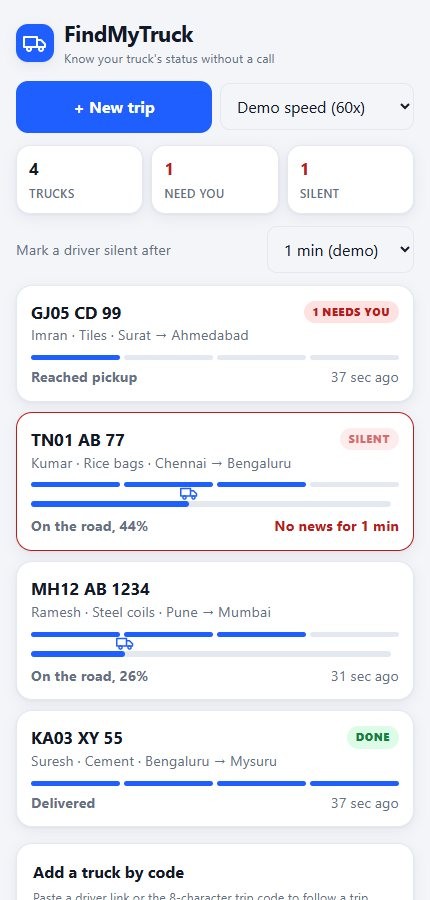
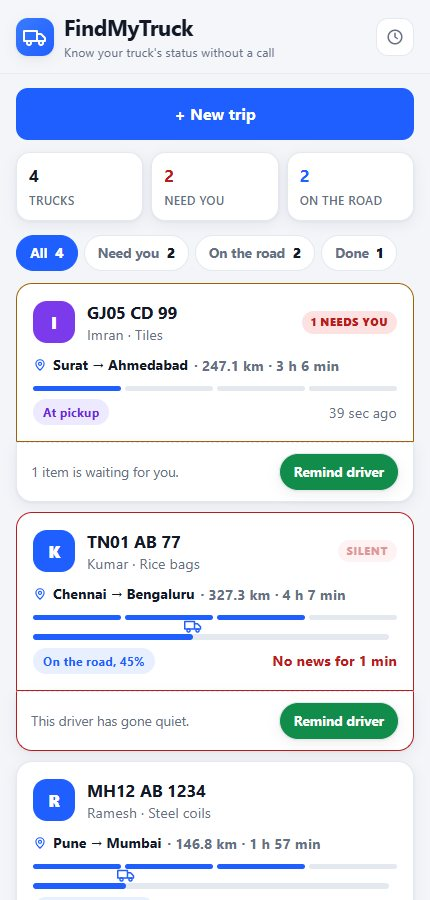
Add Remind driver for anything that needs the manager, and refresh the website screenshots

diff --git a/app/trip-detail.tsx b/app/trip-detail.tsx
@@ -5,7 +5,7 @@ import dynamic from "next/dynamic";
 import QRCode from "qrcode";
 import { useCallback, useEffect, useRef, useState } from "react";
 import { LABELS, LANGUAGES } from "@/lib/labels";
-import { STATUSES, normalizePhone, openCount, routeProgress, silentFor, stageIndex } from "@/lib/rules";
+import { STATUSES, lastDriverEvent, normalizePhone, openCount, routeProgress, silentFor, stageIndex } from "@/lib/rules";
 import type { Event, Trip } from "@/lib/store";
 import type { Created } from "./new-trip-form";
 import { Brand, Icon, Skeleton, ago, duration } from "./ui";
@@ -34,9 +34,10 @@ type Props = {
   onRemove: () => void; // drop this truck from the list
   onFound: () => void; // the trip exists, make sure it is on the list
   embedded?: boolean; // shown inside the demo page: no header, buttons, driver link or chat panel
+  onRemind?: (text: string) => void; // the demo page shows the reminder on its phone
 };
 
-export default function TripDetail({ tripId, created, demoSpeed, setDemoSpeed, silentMin, onBack, onRemove, onFound, embedded = false }: Props) {
+export default function TripDetail({ tripId, created, demoSpeed, setDemoSpeed, silentMin, onBack, onRemove, onFound, embedded = false, onRemind }: Props) {
   const [trip, setTrip] = useState<Trip | null>(null);
   const [missing, setMissing] = useState(false);
   const [now, setNow] = useState(0); // set by the first timer tick
@@ -44,6 +45,8 @@ export default function TripDetail({ tripId, created, demoSpeed, setDemoSpeed, s
   const [sim, setSim] = useState<{ from: "driver" | "bot"; text: string }[]>([]);
   const [simText, setSimText] = useState("");
   const [simBusy, setSimBusy] = useState(false);
+  const [remindBusy, setRemindBusy] = useState(false);
+  const [remindNote, setRemindNote] = useState("");
 
   const foundRef = useRef(onFound);
   useEffect(() => { foundRef.current = onFound; });
@@ -64,6 +67,41 @@ export default function TripDetail({ tripId, created, demoSpeed, setDemoSpeed, s
     const timer = setInterval(tick, embedded ? 1500 : 3000);
     return () => { clearTimeout(first); clearInterval(timer); };
   }, [load, embedded]);
+
+  // "Remind driver": the server messages them in their language. If messaging is not connected, WhatsApp opens with the text ready.
+  async function remind(eventId?: string) {
+    if (remindBusy) return;
+    setRemindBusy(true);
+    setRemindNote("");
+    const tab = embedded ? null : window.open("", "_blank"); // opened now, while the click still counts
+    tab?.document.write("Opening WhatsApp...");
+    try {
+      const res = await fetch("/api/remind", {
+        method: "POST",
+        headers: { "Content-Type": "application/json" },
+        body: JSON.stringify({ tripId, eventId, simulate: embedded }),
+      });
+      const data = await res.json();
+      if (!res.ok) {
+        tab?.close();
+        setRemindNote(data.error ?? "Could not send the reminder.");
+      } else if (embedded) {
+        onRemind?.(data.message);
+        setRemindNote("Reminder sent to the driver.");
+      } else if (data.sent) {
+        tab?.close();
+        setRemindNote("Reminder sent to the driver.");
+      } else {
+        if (tab) tab.location.href = `https://wa.me/?text=${encodeURIComponent(data.message)}`;
+        setRemindNote(data.configured ? "The reminder could not be sent, so WhatsApp opened with it ready to send." : "Messaging is not connected, so WhatsApp opened with the reminder ready to send.");
+      }
+    } catch {
+      tab?.close();
+      setRemindNote("No connection. Try again.");
+    }
+    setRemindBusy(false);
+    load();
+  }
 
   // Demo panel: send a message as if it came from the driver's phone, and show what the app answers.
   async function sendSim(text: string) {
@@ -122,7 +160,7 @@ export default function TripDetail({ tripId, created, demoSpeed, setDemoSpeed, s
   const phone = created?.trip.id === trip.id ? created.phone : "";
 
   const events = [...trip.events].reverse();
-  const last = trip.events[trip.events.length - 1];
+  const last = lastDriverEvent(trip.events);
   const link = `${window.location.origin}/driver/${trip.id}`;
   const open = openCount(trip.events);
   const stage = stageIndex(trip.events);
@@ -130,7 +168,6 @@ export default function TripDetail({ tripId, created, demoSpeed, setDemoSpeed, s
   const route = trip.route;
   const progress = route ? routeProgress(trip.events, route.durationMin, speed, now) : 0;
   const message = LABELS[trip.language].invite.replace("{url}", link);
-  const nudge = LABELS[trip.language].nudge.replace("{url}", link);
   const digits = (normalizePhone(phone) ?? "").replace("+", "");
   const silent = silentFor(trip.events, trip.createdAt, stage, now, silentMin);
 
@@ -169,11 +206,11 @@ export default function TripDetail({ tripId, created, demoSpeed, setDemoSpeed, s
         <div className="banner danger">
           <strong>No news from the driver for {duration(silent)}.</strong>
           <div style={{ margin: "4px 0 10px" }}>Call them, or send a reminder in {LANGUAGE_NAMES[trip.language]}.</div>
-          <a href={`https://wa.me/${digits}?text=${encodeURIComponent(nudge)}`} target="_blank" rel="noreferrer" style={{ textDecoration: "none" }}>
-            <button className="wa wide" type="button">Send reminder on WhatsApp</button>
-          </a>
+          <button className="wa wide" type="button" disabled={remindBusy} onClick={() => remind()}>Remind driver</button>
         </div>
       )}
+
+      {remindNote && <div className="banner">{remindNote}</div>}
 
       {invite?.sent && (
         <div className="banner good">
@@ -282,7 +319,10 @@ export default function TripDetail({ tripId, created, demoSpeed, setDemoSpeed, s
           </div>
           {ev.photo && <img src={ev.photo} alt="Slip" />}
           {ev.level !== "ok" && !ev.handled && (
-            <p style={{ marginBottom: 0 }}><button className="secondary" onClick={() => markHandled(ev.id)}>Mark as handled</button></p>
+            <div className="row" style={{ marginTop: 12 }}>
+              <button className="wa" disabled={remindBusy} onClick={() => remind(ev.id)}>Remind driver</button>
+              <button className="secondary" onClick={() => markHandled(ev.id)}>Mark as handled</button>
+            </div>
           )}
         </div>
       ))}

diff --git a/app/fleet-view.tsx b/app/fleet-view.tsx
@@ -1,7 +1,7 @@
 "use client";
 
 import { useCallback, useEffect, useState } from "react";
-import { STATUSES, openCount, routeProgress, silentFor, stageIndex } from "@/lib/rules";
+import { STATUSES, lastDriverEvent, openCount, routeProgress, silentFor, stageIndex } from "@/lib/rules";
 import { SILENT_OPTIONS, parseTripCode } from "@/lib/fleet";
 import type { TripSummary } from "@/lib/store";
 import { Brand, Icon, Skeleton, ago, duration } from "./ui";
@@ -27,6 +27,8 @@ export default function FleetView({ ids, demoSpeed, setDemoSpeed, silentMin, set
   const [codeError, setCodeError] = useState("");
   const [filter, setFilter] = useState<Filter>("all");
   const [settings, setSettings] = useState(false);
+  const [reminding, setReminding] = useState<string | null>(null);
+  const [notes, setNotes] = useState<Record<string, string>>({});
 
   const key = ids.join(",");
   const load = useCallback(async () => {
@@ -58,6 +60,32 @@ export default function FleetView({ ids, demoSpeed, setDemoSpeed, silentMin, set
     onAdd(id);
   }
 
+  // "Remind driver" for a truck that needs you. The server messages the driver in their language; without
+  // messaging connected, WhatsApp opens with the text ready.
+  async function remind(t: TripSummary) {
+    if (reminding) return;
+    setReminding(t.id);
+    const say = (text: string) => setNotes((cur) => ({ ...cur, [t.id]: text }));
+    const tab = window.open("", "_blank"); // opened now, while the click still counts
+    tab?.document.write("Opening WhatsApp...");
+    const eventId = [...t.events].reverse().find((e) => e.level !== "ok" && !e.handled)?.id;
+    try {
+      const res = await fetch("/api/remind", { method: "POST", headers: { "Content-Type": "application/json" }, body: JSON.stringify({ tripId: t.id, eventId }) });
+      const data = await res.json();
+      if (!res.ok) { tab?.close(); say(data.error ?? "Could not send the reminder."); }
+      else if (data.sent) { tab?.close(); say("Reminder sent."); }
+      else {
+        if (tab) tab.location.href = `https://wa.me/?text=${encodeURIComponent(data.message)}`;
+        say("WhatsApp opened with the reminder ready to send.");
+      }
+    } catch {
+      tab?.close();
+      say("No connection. Try again.");
+    }
+    setReminding(null);
+    load();
+  }
+
   const speed = demoSpeed ? 60 : 1;
   const silentOf = (t: TripSummary) => silentFor(t.events, t.createdAt, stageIndex(t.events), now, silentMin);
   const needs = (t: TripSummary) => openCount(t.events) > 0 || silentOf(t) > 0;
@@ -66,7 +94,7 @@ export default function FleetView({ ids, demoSpeed, setDemoSpeed, silentMin, set
   // Trucks that need you (a decision to make, or a driver gone quiet) come first, delivered ones last.
   const sorted = [...(trips ?? [])].sort((a, b) => {
     const rank = (t: TripSummary) => (needs(t) ? 0 : stageOf(t) >= 3 ? 2 : 1);
-    const lastAt = (t: TripSummary) => t.events[t.events.length - 1]?.at ?? t.createdAt;
+    const lastAt = (t: TripSummary) => lastDriverEvent(t.events)?.at ?? t.createdAt;
     return rank(a) - rank(b) || lastAt(b) - lastAt(a);
   });
   const counts = {
@@ -131,7 +159,7 @@ export default function FleetView({ ids, demoSpeed, setDemoSpeed, silentMin, set
       {shown.map((t) => {
         const open = openCount(t.events);
         const stage = stageOf(t);
-        const last = t.events[t.events.length - 1];
+        const last = lastDriverEvent(t.events);
         const progress = t.route ? routeProgress(t.events, t.route.durationMin, speed, now) : 0;
         const silent = silentOf(t);
         const onRoad = stage === 2;
@@ -142,7 +170,8 @@ export default function FleetView({ ids, demoSpeed, setDemoSpeed, silentMin, set
           : stage === 1 ? "Loaded" : "At pickup";
         const chip = stage >= 3 ? "done" : onRoad ? "onroad" : stage < 0 ? "idle" : "start";
         return (
-          <button key={t.id} className={`fleetcard ${silent > 0 ? "silent" : open > 0 ? "attn" : ""}`} onClick={() => onOpen(t.id)}>
+          <div key={t.id} className={`fleetitem ${needs(t) ? "has-actions" : ""} ${silent > 0 ? "is-silent" : ""}`}>
+          <button className={`fleetcard ${silent > 0 ? "silent" : open > 0 ? "attn" : ""}`} onClick={() => onOpen(t.id)}>
             <div className="fc-top">
               <span className={`avatar ${chip}`}>{(t.driver || t.truck).trim().charAt(0).toUpperCase()}</span>
               <div className="fc-title">
@@ -170,6 +199,13 @@ export default function FleetView({ ids, demoSpeed, setDemoSpeed, silentMin, set
               </span>
             </div>
           </button>
+          {needs(t) && (
+            <div className="fc-actions">
+              <span className="muted">{notes[t.id] ?? (silent > 0 ? "This driver has gone quiet." : `${open} ${open === 1 ? "item is" : "items are"} waiting for you.`)}</span>
+              <button type="button" className="wa" disabled={reminding === t.id} onClick={() => remind(t)}>Remind driver</button>
+            </div>
+          )}
+          </div>
         );
       })}
 

diff --git a/app/demo/demo-client.tsx b/app/demo/demo-client.tsx
@@ -15,14 +15,15 @@ const TRUCK = "MH12 AB 1234";
 const noop = () => {};
 
 type Message = { from: "driver" | "bot"; text?: string; photo?: string };
-type Step = { say?: string; photo?: "good" | "blurry"; note: string; after: number };
+type Step = { say?: string; photo?: "good" | "blurry"; remind?: boolean; note: string; after: number };
 
 const SCRIPT: Step[] = [
   { say: "2", note: "The driver picks Tamil from the first message", after: 3500 },
   { say: "1", note: "Reports that the truck reached the pickup", after: 3500 },
   { photo: "good", note: "Sends a photo of the weighment slip: AI reads it, rules check it", after: 5000 },
   { say: "3", note: "Leaves the yard: the lorry starts moving on the map", after: 11000 },
-  { say: "வழியில் டயர் பஞ்சர் ஆகிவிட்டது", note: "Reports a problem in Tamil: AI translates it, it lands in Review", after: 7000 },
+  { say: "வழியில் டயர் பஞ்சர் ஆகிவிட்டது", note: "Reports a problem in Tamil: AI translates it, it lands in Review", after: 6000 },
+  { remind: true, note: "The manager taps Remind driver: the driver is nudged in Tamil", after: 6000 },
   { say: "4", note: "Delivers the load", after: 0 },
 ];
 
@@ -139,6 +140,15 @@ export default function DemoClient() {
     setBusy(false);
   }
 
+  // What "Remind driver" does on the manager screen: the nudge shows up on the driver phone.
+  async function remindDriver(id: string) {
+    try {
+      const res = await fetch("/api/remind", { method: "POST", headers: { "Content-Type": "application/json" }, body: JSON.stringify({ tripId: id, simulate: true }) });
+      const data = await res.json();
+      if (res.ok) setMessages((cur) => [...cur, { from: "bot", text: data.message }]);
+    } catch {}
+  }
+
   async function play() {
     if (playing) return;
     setPlaying(true);
@@ -149,7 +159,8 @@ export default function DemoClient() {
       for (let i = 0; i < SCRIPT.length && !stop.current; i++) {
         const s = SCRIPT[i];
         setNote(`Step ${i + 1} of ${SCRIPT.length}: ${s.note}`);
-        await sendAsDriver(id, s.photo ? { photo: slipPhoto(18450) } : { text: s.say });
+        if (s.remind) await remindDriver(id);
+        else await sendAsDriver(id, s.photo ? { photo: slipPhoto(18450) } : { text: s.say });
         if (s.after) await sleep(s.after);
       }
       if (!stop.current) setNote("Done. Every reply updated the manager's screen by itself.");
@@ -209,7 +220,7 @@ export default function DemoClient() {
         <section>
           <h2>The manager&apos;s screen (updates by itself)</h2>
           {tripId
-            ? <TripDetail key={tripId} tripId={tripId} created={null} demoSpeed setDemoSpeed={noop} silentMin={120} onBack={noop} onRemove={noop} onFound={noop} embedded />
+            ? <TripDetail key={tripId} tripId={tripId} created={null} demoSpeed setDemoSpeed={noop} silentMin={120} onBack={noop} onRemove={noop} onFound={noop} embedded onRemind={(text) => setMessages((cur) => [...cur, { from: "bot", text }])} />
             : <p className="muted">Starting the demo...</p>}
         </section>
       </div>

diff --git a/app/api/remind/route.ts b/app/api/remind/route.ts
@@ -1,0 +1,48 @@
+import { NextResponse } from "next/server";
+import { reminderMessage, type Lang } from "@/lib/chat";
+import { messagingConfigured, sendToDriver } from "@/lib/sms";
+import { getTrip, saveTrip } from "@/lib/store";
+
+const COOLDOWN_MS = 30_000;
+
+// "Remind driver": send the driver a nudge in their language, on every connected channel.
+// Without messaging set up (or for the demo) the text is only returned, so the screen can open WhatsApp with it.
+export async function POST(req: Request) {
+  const b = await req.json().catch(() => null);
+  const trip = await getTrip(String(b?.tripId ?? ""));
+  if (!trip) return NextResponse.json({ error: "Trip not found" }, { status: 404 });
+
+  const lastReminder = [...trip.events].reverse().find((e) => e.status === "Reminder");
+  if (lastReminder && Date.now() - lastReminder.at < COOLDOWN_MS) {
+    return NextResponse.json({ error: "A reminder was just sent. Give the driver a moment." }, { status: 429 });
+  }
+
+  // What is the reminder about? A slip problem asks for a photo; anything else asks for a status update.
+  const about = b?.eventId ? trip.events.find((e) => e.id === b.eventId) : undefined;
+  const aboutSlip = !!about && (about.kind === "slip" || (about.status === "Loaded" && about.level !== "ok"));
+  const message = reminderMessage({
+    lang: trip.language as Lang,
+    truck: trip.truck,
+    stage: trip.chat?.stage ?? "active",
+    reason: aboutSlip ? "slip" : "update",
+  });
+
+  const simulate = b?.simulate === true; // the demo page: pretend it was delivered
+  const results = !simulate && trip.phone ? await sendToDriver(trip.phone, message) : [];
+  const sent = simulate || results.some((r) => r.sent);
+  const channels = results.filter((r) => r.sent).map((r) => r.via).join(" and ");
+
+  trip.events.push({
+    id: crypto.randomUUID().slice(0, 8),
+    at: Date.now(),
+    kind: "system",
+    original: "",
+    translation: "",
+    status: "Reminder",
+    level: "ok",
+    note: sent ? (simulate ? "Reminder sent to the driver." : `Reminder sent to the driver on ${channels}.`) : "Reminder prepared. It was not sent automatically.",
+  });
+  await saveTrip(trip);
+
+  return NextResponse.json({ message, sent, configured: messagingConfigured(), results });
+}

diff --git a/lib/chat.ts b/lib/chat.ts
@@ -115,3 +115,28 @@ export const ackStatus = (lang: Lang, status: ChatStatus) => `${WORDS[lang].note
 export const ackPhoto = (lang: Lang) => WORDS[lang].photoOk;
 export const ackText = (lang: Lang) => WORDS[lang].textOk;
 export const askRetake = (lang: Lang) => WORDS[lang].retake;
+
+// ---------- Reminders from the manager ----------
+const ASK_SLIP: Record<Lang, string> = {
+  hi: "कृपया स्लिप की साफ़ फोटो भेजें।",
+  ta: "தயவுசெய்து எடைச் சீட்டின் தெளிவான படத்தை அனுப்பவும்.",
+  ml: "ദയവായി സ്ലിപ്പിന്റെ വ്യക്തമായ ഫോട്ടോ അയയ്ക്കുക.",
+  en: "Please send a clear photo of the weighment slip.",
+};
+
+const REMIND_UPDATE: Record<Lang, string> = {
+  hi: "कृपया अपनी ट्रिप का हाल बताएं।",
+  ta: "தயவுசெய்து உங்கள் பயண நிலையைத் தெரிவிக்கவும்.",
+  ml: "ദയവായി നിങ്ങളുടെ യാത്രയുടെ വിവരം അറിയിക്കുക.",
+  en: "Please update your trip status.",
+};
+
+// The text sent to a driver when the manager taps "Remind driver".
+//  - the driver never picked a language: show the language menu again
+//  - the problem is the slip: ask for a clear photo
+//  - otherwise: ask for an update and show the reply numbers
+export function reminderMessage(opts: { lang: Lang; truck: string; stage: "awaiting_language" | "active"; reason?: "slip" | "update" }): string {
+  if (opts.stage === "awaiting_language") return languageMenu(opts.truck);
+  if (opts.reason === "slip") return `FindMyTruck | ${opts.truck}\n${ASK_SLIP[opts.lang]}`;
+  return `${REMIND_UPDATE[opts.lang]}\n${activeMenu(opts.lang, opts.truck)}`;
+}

diff --git a/lib/rules.ts b/lib/rules.ts
@@ -25,12 +25,19 @@ export function stageIndex(events: Stamped[]) {
 // Review and flag items the manager has not dealt with yet.
 export const openCount = (events: Stamped[]) => events.filter((e) => e.level !== "ok" && !e.handled).length;
 
+// The newest thing the DRIVER did. A reminder the manager sent is not the driver being active.
+export function lastDriverEvent<T extends { status?: string }>(events: T[]): T | undefined {
+  for (let i = events.length - 1; i >= 0; i--) if (events[i].status !== "Reminder") return events[i];
+  return undefined;
+}
+
 // Minutes of silence from the driver, or 0 when all is well. A trip counts as silent when it is not
 // delivered yet and nothing has come in for `thresholdMin` minutes. A trip nobody has opened is measured
 // from the moment it was created.
-export function silentFor(events: { at: number }[], createdAt: number, stage: number, now: number, thresholdMin: number) {
+export function silentFor(events: { at: number; status?: string }[], createdAt: number, stage: number, now: number, thresholdMin: number) {
   if (stage >= 3) return 0;
-  const lastAt = events.length ? events[events.length - 1].at : createdAt;
+  const heard = lastDriverEvent(events);
+  const lastAt = heard ? heard.at : createdAt;
   const mins = Math.floor(Math.max(0, now - lastAt) / 60000);
   return mins >= thresholdMin ? mins : 0;
 }

diff --git a/app/globals.css b/app/globals.css
@@ -370,3 +370,12 @@ button.fleetcard.attn { border-color: var(--review); }
 @keyframes fresh { 0% { box-shadow: 0 0 0 0 color-mix(in srgb, var(--accent) 55%, transparent), var(--shadow); transform: translateY(-6px); opacity: 0.4; } 30% { box-shadow: 0 0 0 6px color-mix(in srgb, var(--accent) 25%, transparent), var(--shadow); transform: none; opacity: 1; } 100% { box-shadow: var(--shadow); } }
 @media (prefers-reduced-motion: reduce) { .event.fresh { animation: none; } }
 .embed .timeline { padding-left: 24px; }
+
+/* ---------- reminders ---------- */
+.fleetitem { margin-bottom: 10px; }
+.fleetitem button.fleetcard { margin-bottom: 0; }
+.fleetitem.has-actions button.fleetcard { border-bottom-left-radius: 0; border-bottom-right-radius: 0; box-shadow: none; }
+.fc-actions { display: flex; align-items: center; justify-content: space-between; gap: 10px; padding: 10px 14px; background: var(--card); border: 1px solid var(--line); border-top: 1px dashed var(--line); border-radius: 0 0 16px 16px; box-shadow: var(--shadow); }
+.fleetitem.is-silent .fc-actions { border-color: var(--flag); border-top-color: var(--line); }
+.fc-actions > span { font-size: 0.85rem; }
+.fc-actions button { flex: none; padding: 8px 14px; font-size: 0.85rem; }
